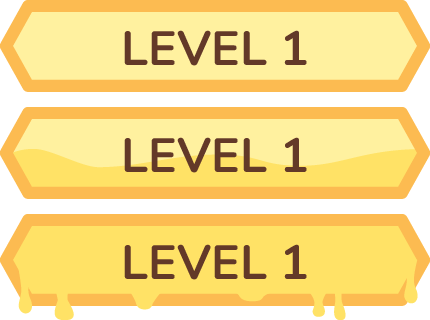
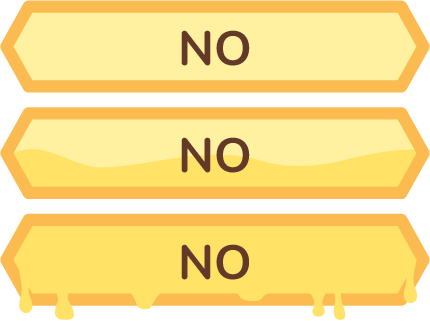
changed pictures, made x exit

diff --git a/classes.h b/classes.h
@@ -13,6 +13,9 @@ class Menu;
 class LevelSelection;
 class Gallery;
 class PuzzlePiece;
+class Exit;
+
+bool is_exit(int window, SDL_Event ev);
 
 class LTexture
 {
@@ -335,16 +338,13 @@ class CurrentWindow abstract
 protected:
 	Picture texture_bg;
 	int count_of_but;
-	
-public:
 	vector <LButton> button;
-	CurrentWindow()
+	 int window;
+public:
+	
+	CurrentWindow(int x_but, int y_but, int margin, int height_but, int width_but, int count_of_but,int window, bool vert_but = true)
 	{
-
-	}
-	CurrentWindow(int x_but, int y_but, int margin, int height_but, int width_but, int count_of_but, bool vert_but = true)
-	{
-
+		this->window = window;
 		this->count_of_but = count_of_but;
 		for (int i = 0; i < count_of_but; i++)
 		{
@@ -360,7 +360,7 @@ public:
 			else
 			{
 				button[i].setPosition(x_but, y_but);
-				x_but += margin;
+				x_but += margin ;
 			}
 			button[i].setHeight(height_but);
 			button[i].setWidth(width_but);
@@ -417,9 +417,13 @@ public:
 			//Handle events on queue
 			while (SDL_PollEvent(&e) != 0)
 			{
-				if (EscapeIsPressed(e))
-					return SelectedButtonInCurrentWindow(EXIT_WIND);
-
+				if (x_or_esc_is_pressed(e))
+				{
+					if (is_exit(window, e))
+						return CLOSE_GAME;
+				}
+					//return SelectedButtonInCurrentWindow(EXIT_WIND);
+				Show_window();
 				for (int i = 0; i < count_of_but; i++)
 				{
 					event_buttons[i] = button[i].handleEvent(&e);
@@ -461,10 +465,88 @@ public:
 		}
 	}
 };
+class Exit : public CurrentWindow
+{
+private:
+	int selected_window;
+	static int count_of_wind;
+public:
+	Exit() :CurrentWindow(306, 670, 460, 107, 430, ExitButtons::COUNT_OF_BUT,Window::EXIT_WIND, false)
+	{
+		count_of_wind++;
+	}
+	~Exit()
+	{
+		count_of_wind--;
+	}
+	int GetCountOfWind()
+	{
+		return count_of_wind;
+	}
+	int GetSelectedWindow()
+	{
+		return  selected_window;
+	}
+	void SetSelectedWindow(int selected_window)
+	{
+		this->selected_window = selected_window;
+	}
+	bool LoadButton()override
+	{
+		bool success = true;
+		if (!button[YES].loadButton("img\\Exit\\yes.png"))
+		{
+			success = false;
+		}
+		if (!button[NO].loadButton("img\\Exit\\no.png"))
+		{
+			success = false;
+		}
+		return success;
+	}
+	bool LoadBg()override
+	{
+		bool success = true;
+		if (!texture_bg.loadFromFile("img\\Exit\\bg.png"))
+		{
+			success = false;
+		}
+		return success;
+	}
+	int SelectedButtonInCurrentWindow(int button)override
+	{
+		switch (button)
+		{
+		case YES:
+			return CLOSE_GAME;
+			break;
+		case NO:
+			return selected_window;
+			break;
+		case EXIT_WIND:
+			return CLOSE_GAME;
+		}
+		//switch (button)
+		//{
+		//case YES:
+		//	return CLOSE_GAME;
+		//	break;
+		//case NO:
+		//	return selected_window;
+		//	break;
+		//case EXIT_WIND:
+		//	return CLOSE_GAME;
+		//}
+	}
+
+};
+int Exit::count_of_wind = 0;
 class Menu : public CurrentWindow
 {
 public:
-	Menu(int x_but, int y_but, int margin, int height_but, int width_but, int count_of_but = ButtonNameInMenu::COUNT_OF_BUTTONS) :CurrentWindow(x_but, y_but, margin, height_but, width_but, count_of_but)
+	Menu(int x_but, int y_but, int margin,
+		int height_but, int width_but,
+		int count_of_but = ButtonNameInMenu::COUNT_OF_BUTTONS) :CurrentWindow(x_but, y_but, margin, height_but, width_but, count_of_but, Window::EXIT_WIND)
 	{
 
 	}
@@ -515,7 +597,11 @@ public:
 class LevelSelection : public CurrentWindow
 {
 public:
-	LevelSelection(int x_but, int y_but, int margin, int height_but, int width_but, int count_of_but = COUNT_OF_LEVELSELECTION_BUTTONS) :CurrentWindow(x_but, y_but, margin, height_but, width_but, count_of_but)
+	LevelSelection(int x_but, int y_but, 
+		int margin, int height_but, 
+		int width_but,
+		int count_of_but = COUNT_OF_LEVELSELECTION_BUTTONS)
+		:CurrentWindow(x_but, y_but, margin, height_but, width_but, count_of_but, Window::GAME_WIND)
 	{
 
 	}
@@ -554,7 +640,7 @@ public:
 		switch (button)
 		{
 		case EXIT_WIND:
-			return MENU_WIND;
+			return EXIT_WIND;
 			break;
 		}
 	}
@@ -567,7 +653,8 @@ private:
 public:
 	Gallery(int x_but, int y_but, int margin,
 		int height_but, int width_but,
-		int count_of_but = COUNT_BUT_GAL) :CurrentWindow(x_but, y_but, margin, height_but, width_but, count_of_but, false)
+		int count_of_but = COUNT_BUT_GAL)
+		:CurrentWindow(x_but, y_but, margin, height_but, width_but, count_of_but, Window::GALLERY_WIND, false)
 	{
 		for (int i = 0; i < COUNT_OF_PIC; i++)
 		{
@@ -646,65 +733,15 @@ public:
 			}
 			break;
 		case EXIT_WIND:
-			return MENU_WIND;
+
+			return EXIT_WIND;
+
 			break;
 		}
 	}
 	void ShowPics()
 	{
 		pictures[selected_pic].renderP();
-	}
-};
-class Exit : public CurrentWindow
-{
-private:
-	int selected_window;
-public:
-	Exit(int x_but, int y_but, int margin, int height_but, int width_but, int count_of_but = COUNT_OF_LEVELSELECTION_BUTTONS) :CurrentWindow(x_but, y_but, margin, height_but, width_but, count_of_but)
-	{
-
-	}
-	int GetSelectedWindow()
-	{
-		return  selected_window;
-	}
-	void SetSelectedWindow(int selected_window)
-	{
-		this->selected_window = selected_window;
-	}
-	bool LoadButton()override
-	{
-		bool success = true;
-		if (!button[YES].loadButton("img\\Exit\\yes.png"))
-		{
-			success = false;
-		}
-		if (!button[NO].loadButton("img\\Exit\\no.png"))
-		{
-			success = false;
-		}
-		return success;
-	}
-	bool LoadBg()override
-	{
-		bool success = true;
-		if (!texture_bg.loadFromFile("img\\Exit\\bg.png"))
-		{
-			success = false;
-		}
-		return success;
-	}
-	int SelectedButtonInCurrentWindow(int button)override
-	{
-		switch (button)
-		{
-		case YES:
-			return CLOSE_GAME;
-		case NO:
-			return selected_window;
-		case EXIT_WIND:
-			return CLOSE_GAME;
-		}
 	}
 };
 class PuzzlePiece
@@ -812,4 +849,22 @@ public:
 	}
 };
 
+bool is_exit(int selected_window, SDL_Event ev)
+{
+	Exit e;
+
+	if (e.GetCountOfWind() > 1)
+	{
+
+		if (x_is_pressed(ev))
+			return true;
+		return false;
+
+	}
+	e.SetSelectedWindow(selected_window);
+	if (e.click_window() == CLOSE_GAME)
+		return true;
+	else
+		return false;
+}
 

diff --git a/Buzzle.cpp b/Buzzle.cpp
@@ -14,7 +14,6 @@ int main(int argc, char* args[])
 		LevelSelection l(535, 429, 124, 107, 430);
 		Gallery g(74, 374, 1214, 252, 138);
 		Puzzle pzz;
-		Exit e(535, 429, 125, 107, 430);
 		//Load media
 		if (!m.LoadButton() ||
 			!l.LoadButton() ||
@@ -42,16 +41,19 @@ int main(int argc, char* args[])
 				case Window::GALLERY_WIND:
 					//g.Show_gallery();
 					wind_to_return = GALLERY_WIND;
-					//g.ShowPics();
 					window_click = g.click_window();
 					break;
 				case Window::GAME_WIND:
 					wind_to_return = GAME_WIND;
 					window_click = l.click_window();
+
 					break;
 				case Window::EXIT_WIND:
-					e.SetSelectedWindow(wind_to_return);
+					Exit e;
+
+					//e.SetSelectedWindow(wind_to_return);
 					window_click = e.click_window();
+					break;
 				}
 
 			}

diff --git a/functions.h b/functions.h
@@ -16,17 +16,29 @@ bool loadMedia();
 //Frees media and shuts down SDL
 void close();
 
-bool EscapeIsPressed(SDL_Event e)
+bool x_is_pressed(SDL_Event e)
 {
 	if (e.type == SDL_QUIT)
 		return true;
-	else if (e.type == SDL_KEYDOWN)
+	return false;
+}
+bool esc_is_pressed(SDL_Event e)
+{
+	if (e.type == SDL_KEYDOWN)
 	{
 		if (e.key.keysym.sym == SDLK_ESCAPE)
 			return true;
 	}
 	return false;
+
 }
+bool x_or_esc_is_pressed(SDL_Event e)
+{
+	if (x_is_pressed(e) || esc_is_pressed(e))
+		return true;
+	return false;
+}
+
 //LButton gButtons[TOTAL_BUTTONS];
 bool init()
 {

diff --git a/enums.h b/enums.h
@@ -3,7 +3,7 @@
 enum ScreenParams
 {
 	SCREEN_WIDTH = 1500,
-	SCREEN_HEIGHT = 1000
+	SCREEN_HEIGHT = 850
 };
 //Button constants
 enum ButtonParams
